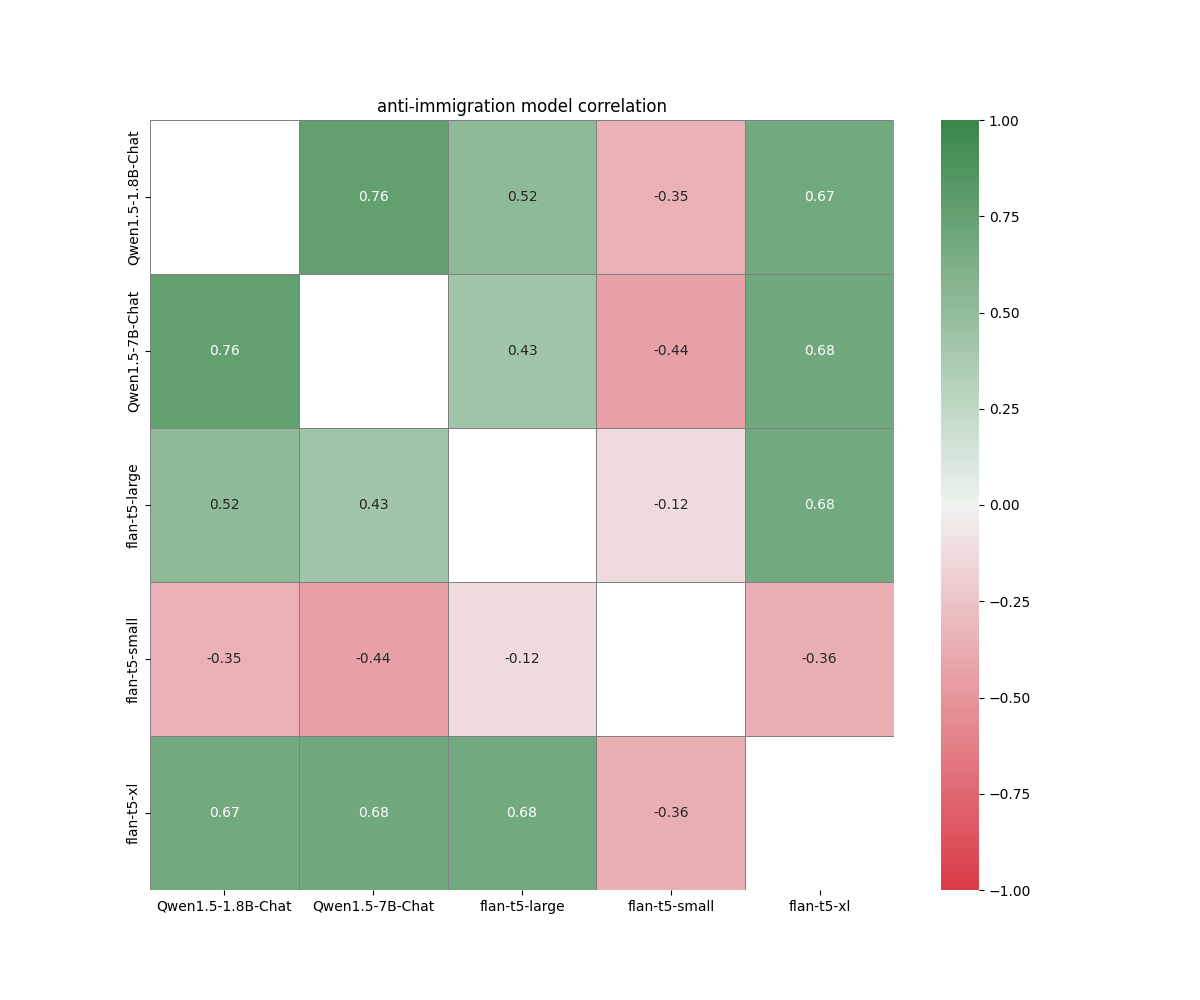
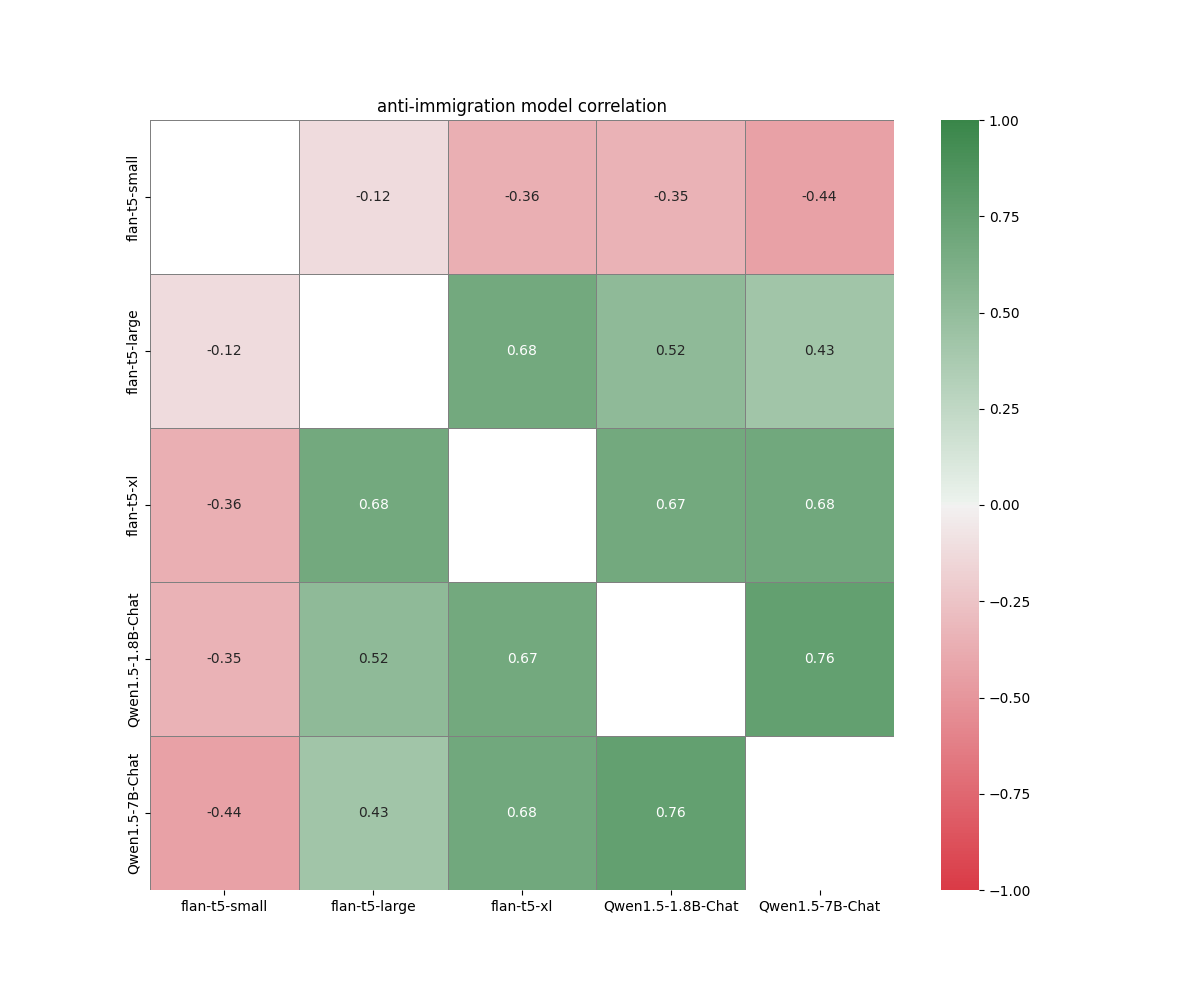
Generate correlation with sampled responses

diff --git a/generate_graphs.py b/generate_graphs.py
@@ -1,3 +1,4 @@
+from collections import defaultdict
 import os
 import json
 from scipy.stats import pearsonr
@@ -12,7 +13,8 @@ def list_directories(path):
     jsonl_files = set()
     for root, subdirs, files in os.walk(path):
         for subdir in subdirs:
-            dirs.append(os.path.relpath(os.path.join(root, subdir), start=path))
+            if subdir not in ["google", "Qwen"]:
+                dirs.append(os.path.relpath(os.path.join(root, subdir), start=path))
         for file in files:
             if file.endswith(".jsonl"):
                 jsonl_files.add(file)
@@ -40,15 +42,13 @@ def extract_prob(data):
 
 def compute_all_pairs_correlations():
     model_dirs, jsonl_files = list_directories("models/")
-
     persona_correlations = {}
 
     for persona_data_file_name in jsonl_files:
         model_persona_data = {}
         for model_dir in model_dirs:
             file_path = os.path.join("models/", model_dir, persona_data_file_name)
-            if os.path.exists(file_path):
-                model_persona_data[model_dir] = load_file_contents(file_path)
+            model_persona_data[model_dir] = load_file_contents(file_path)
 
         correlations = {}
         model_names = list(model_persona_data.keys())
@@ -57,30 +57,67 @@ def compute_all_pairs_correlations():
                 list_dicts1 = model_persona_data[model_name1]
                 list_dicts2 = model_persona_data[model_name2]
                 correlation = compute_correlation(list_dicts1, list_dicts2)
-                correlations[(model_name1, model_name2)] = correlation
+                correlations[
+                    (model_name1.split("/")[-1], model_name2.split("/")[-1])
+                ] = correlation
 
         persona_correlations[persona_data_file_name] = correlations
 
     return persona_correlations
 
 
-def generate_all_pairs_heatmaps():
-    all_correlations = compute_all_pairs_correlations()
+def n_sample_averages(model_persona_data, n):
+    num_questions = len(model_persona_data)
+    average_prob_list, model_prob_list = [], []
+    for i in range(num_questions):
+        indices = list(range(num_questions))
+        indices.remove(i)
 
+        sampled_indices = np.random.choice(indices, n, replace=False)
+        sampled_probs = [
+            extract_prob(model_persona_data[idx]) for idx in sampled_indices
+        ]
+        avg_prob = np.mean(sampled_probs)
+        average_prob_list.append(avg_prob)
+        model_prob_list.append(extract_prob(model_persona_data[i]))
+
+    return model_prob_list, average_prob_list
+
+
+def compute_correlations_with_sampled_averages():
+    model_dirs, jsonl_files = list_directories("models/")
+    persona_correlations = {}
+
+    for persona_data_file_name in jsonl_files:
+        correlations = {}
+        for model_name in model_dirs:
+            file_path = os.path.join("models/", model_name, persona_data_file_name)
+            model_persona_data = load_file_contents(file_path)
+
+            for num_samples in [10, 20, 30]:
+                model_probs_list, avg_probs_list = n_sample_averages(
+                    model_persona_data, num_samples
+                )
+                correlations[model_name.split("/")[-1], f"{num_samples}_samples"], _ = (
+                    pearsonr(model_probs_list, avg_probs_list)
+                )
+
+        persona_correlations[persona_data_file_name] = correlations
+
+    return persona_correlations
+
+
+def generate_all_pairs_heatmaps(all_correlations, save_path):
     for persona_data_file_name, correlations in all_correlations.items():
         persona = persona_data_file_name.replace(".jsonl", "")
-        graph_heatmap_and_save(correlations, persona)
+        graph_heatmap_and_save(correlations, persona, save_path)
 
 
-def generate_average_heatmap():
-    all_correlations = compute_all_pairs_correlations()
-
-    aggregated_correlations = {}
+def generate_average_heatmap(all_correlations, save_path):
+    aggregated_correlations = defaultdict(list)
     count_files = 0
     for file_correlations in all_correlations.values():
         for model_pair, correlation in file_correlations.items():
-            if model_pair not in aggregated_correlations:
-                aggregated_correlations[model_pair] = []
             aggregated_correlations[model_pair].append(correlation)
         count_files += 1
 
@@ -89,24 +126,30 @@ def generate_average_heatmap():
         for pair, values in aggregated_correlations.items()
     }
 
-    graph_heatmap_and_save(average_correlations, "average_persona")
+    graph_heatmap_and_save(average_correlations, "average_persona", save_path)
 
 
-def graph_heatmap_and_save(correlations, persona):
-    save_path = "assets/all_pairs/"
+def graph_heatmap_and_save(correlations, persona, save_path):
+    graph_averages = "sample" in save_path
     os.makedirs(save_path, exist_ok=True)
 
-    models = set()
-    for pair in correlations.keys():
-        models.update([model.split("/")[-1] for model in pair])
-    models = sorted(models)
+    columns = sorted(set([pair[1] for pair in correlations.keys()]))
+    index = [
+        "flan-t5-small",
+        "flan-t5-large",
+        "flan-t5-xl",
+        "Qwen1.5-1.8B-Chat",
+        "Qwen1.5-7B-Chat",
+    ]
 
-    corr_matrix = pd.DataFrame(index=models, columns=models, data=np.nan)
+    corr_matrix = pd.DataFrame(
+        index=index, columns=columns if graph_averages else index, data=np.nan
+    )
 
     for (model1, model2), value in correlations.items():
-        model1, model2 = model1.split("/")[-1], model2.split("/")[-1]
         corr_matrix.at[model1, model2] = value
-        corr_matrix.at[model2, model1] = value
+        if not graph_averages:
+            corr_matrix.at[model2, model1] = value
 
     plt.figure(figsize=(12, 10))
     cmap = sns.diverging_palette(10, 133, as_cmap=True)
@@ -128,5 +171,16 @@ def graph_heatmap_and_save(correlations, persona):
     plt.close()
 
 
-generate_all_pairs_heatmaps()
-generate_average_heatmap()
+generate_all_pairs_heatmaps(
+    compute_all_pairs_correlations(), save_path="assets/all_pairs/"
+)
+generate_average_heatmap(
+    compute_all_pairs_correlations(), save_path="assets/all_pairs/"
+)
+
+generate_all_pairs_heatmaps(
+    compute_correlations_with_sampled_averages(), save_path="assets/n_sample_averages/"
+)
+generate_average_heatmap(
+    compute_correlations_with_sampled_averages(), save_path="assets/n_sample_averages/"
+)
